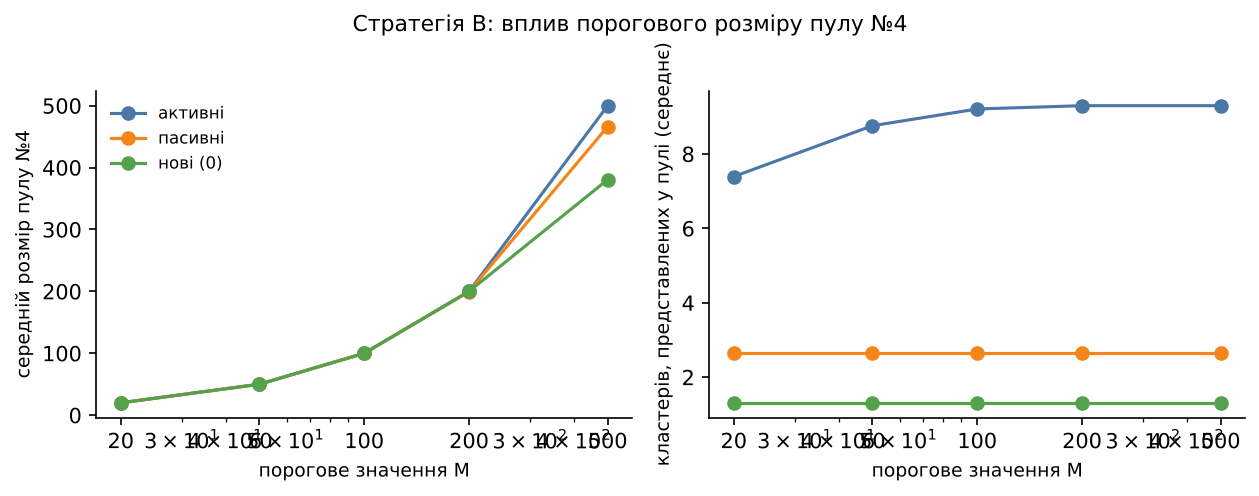
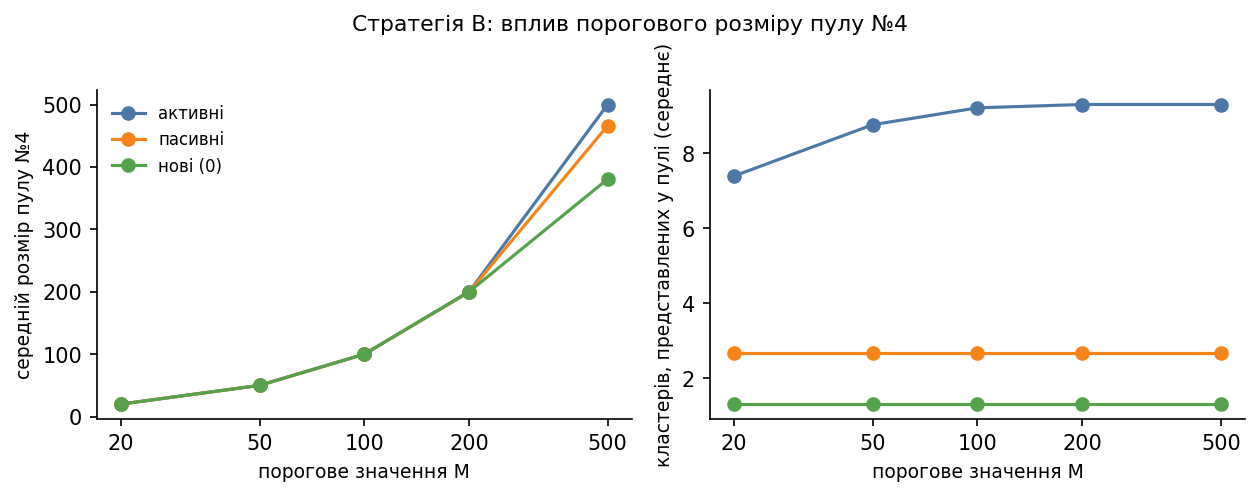
Рисунок «Стратегія В»: лише мітки M (20, 50, 100, 200, 500) на логарифмічній осі

diff --git a/09_distribution_stats.py b/09_distribution_stats.py
@@ -172,7 +172,7 @@ for g in SHOW:
     axes[1].plot(POOL_M, [nclu_pool[m][grp == g].mean() for m in POOL_M], "o-", color=GC[g], label=g)
 axes[0].set_ylabel("середній розмір пулу №4"); axes[1].set_ylabel("кластерів, представлених у пулі (середнє)")
 for ax in axes:
-    ax.set_xlabel("порогове значення M"); ax.set_xscale("log"); ax.set_xticks(POOL_M); ax.set_xticklabels(POOL_M)
+    ax.set_xlabel("порогове значення M"); ax.set_xscale("log"); ax.set_xticks(POOL_M); ax.set_xticklabels(POOL_M); ax.set_xticks([], minor=True)   # без проміжних міток 3×10¹, 4×10¹ … — лише значення M
 axes[0].legend(frameon=False, fontsize=8)
 fig.suptitle("Стратегія В: вплив порогового розміру пулу №4", fontsize=10.5, y=1.02)
 fig.tight_layout(); fig.savefig(FIG / "l2_strategyB_threshold.png", bbox_inches="tight"); plt.close(fig)
